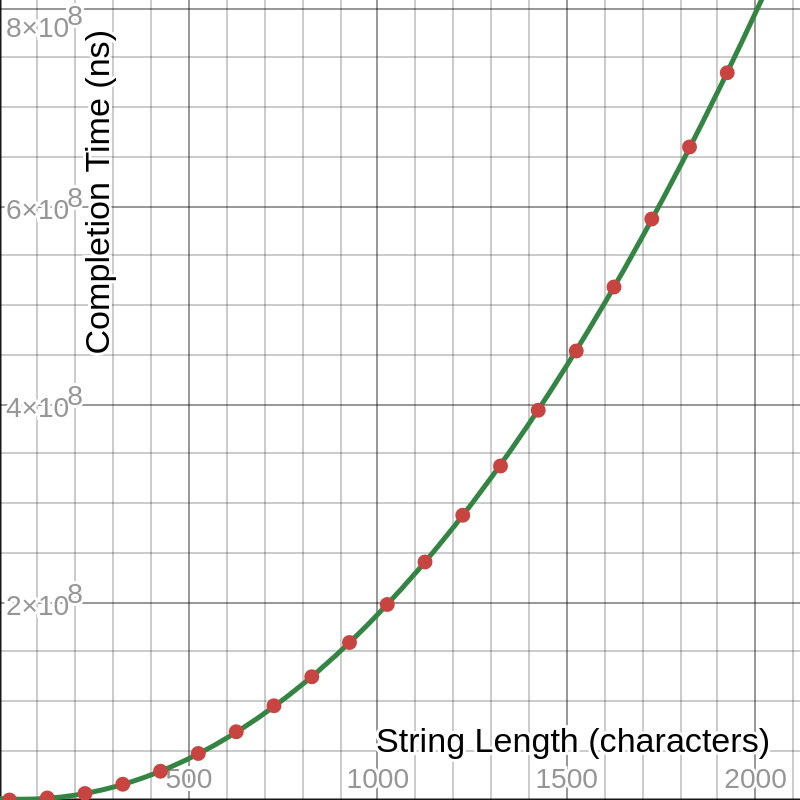
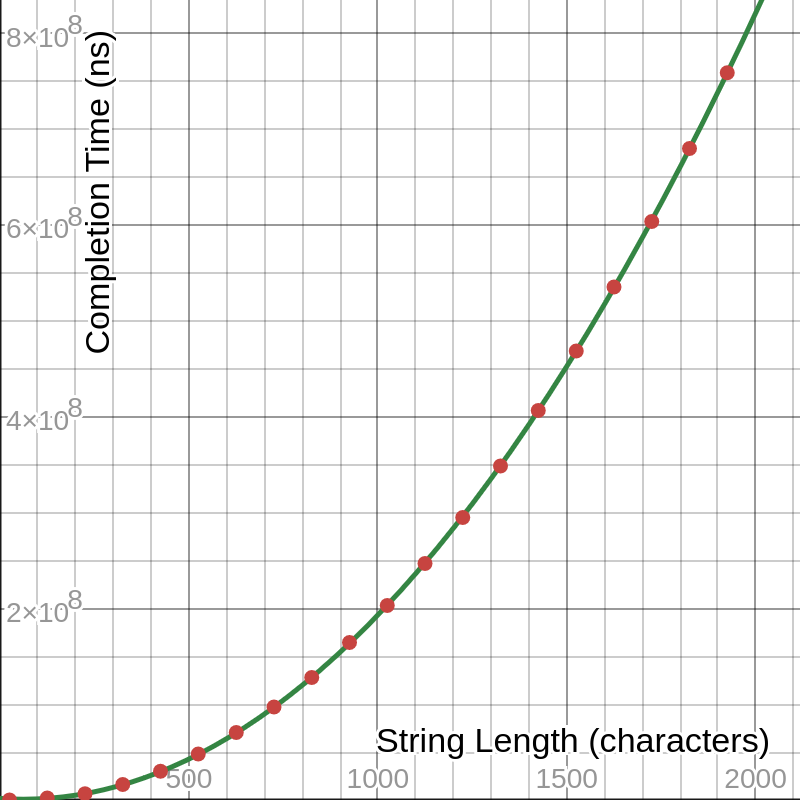
fix run.py and update graphs with new backtracking

diff --git a/src/run.py b/src/run.py
@@ -8,7 +8,7 @@ def hvlcs_complete(character_map: dict[str, int], A: str, B: str) -> tuple[str, 
     dp: list[list[int]] = hvlcs(character_map, A, B)
 
     # get the hvlcs string
-    result: str = backtrack(dp, A)
+    result: str = backtrack(dp, A, B, character_map)
 
     # get the value of the string
     value: int = dp[len(A)][len(B)]

diff --git a/src/graph.py b/src/graph.py
@@ -86,7 +86,7 @@ if __name__ == "__main__":
             "alphabet_size": alphabet_size,
             "string_lengths": string_lengths,
             "runtimes": runtimes
-        }, f)
+        }, f, indent=2)
 
 
     # graph the runtimes
